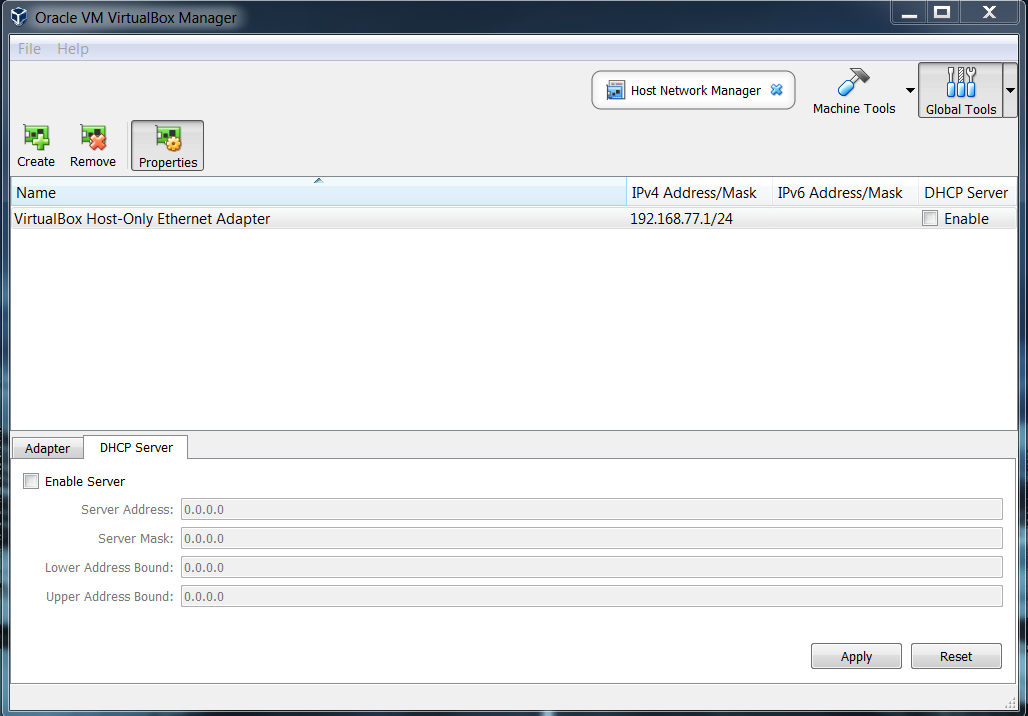
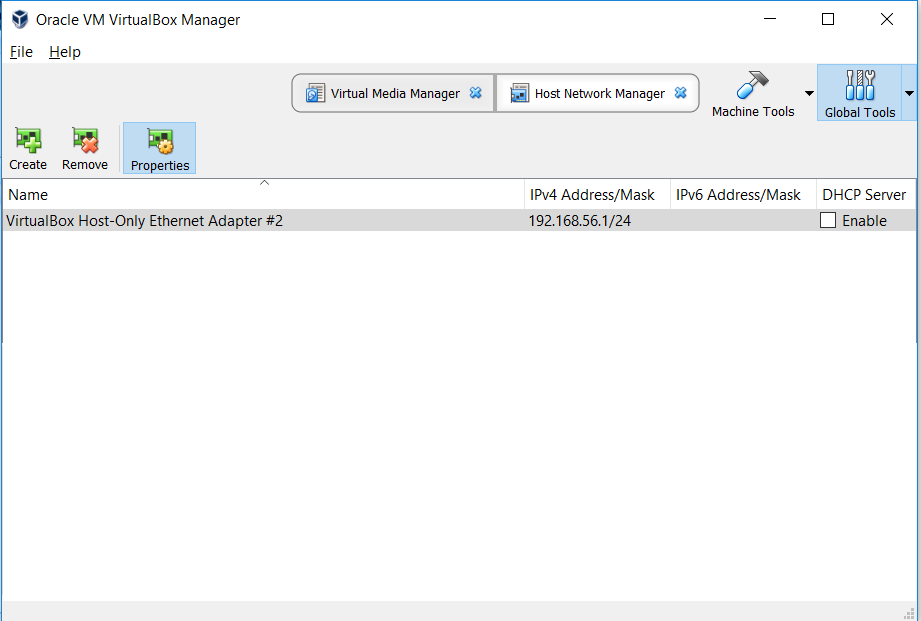
added changes from PR

Changed region(s): [[0.0, 0.0, 1.0, 1.0]]

diff --git a/src/render/guides/edge/installation/setting-up-virtual-box.html.md b/src/render/guides/edge/installation/setting-up-virtual-box.html.md
@@ -29,14 +29,14 @@ Download the VirtualBox package for your operating system from [https://www.virt
 6. Click **OK** to save your settings.
 
 7. Click **Global Tools** in the top right. Select VirtualBox Host-Only Ethernet Adapter.<br>
-<img src="/guides/images/edge/edge-vb-05.png" name="NAT network details" style="width:75%;"/>
+<img src="/guides/images/edge/edge-vb-07.png" name="NAT network details" style="width:75%;"/>
 
 8. Click the properties icon on the right and make sure that **IPv4 Address** and **IPv4 Mask** are set to the following values: IPv4 Adress = 192.168.56.1, IPv4 Mask = 255.255.255.0 <br>
-<img src="/guides/images/edge/edge-vb-06.png" name="NAT network details" style="width:75%;"/><br>
+<img src="/guides/images/edge/edge-vb-08.png" name="NAT network details" style="width:75%;"/><br>
 If, in your VirtualBox, there already is a Host-Only Ethernet Adapter configured with the same IPv4 address, then update its properties as described in the next steps.
 
 9. Click the **DHCP Server** tab and make sure that the DHCP server is not enabled.<br>
-<img src="/guides/images/edge/edge-vb-07.png" name="NAT network details" style="width:75%;"/>
+<img src="/guides/images/edge/edge-vb-09.png" name="NAT network details" style="width:75%;"/>
 
 The VirtualBox now is installed and the network is set.
 

diff --git a/src/render/guides/edge/installation/accessing-cumulocity.html.md b/src/render/guides/edge/installation/accessing-cumulocity.html.md
@@ -43,7 +43,11 @@ Using &#60;domain_name>, Cumulocity IoT Edge can be connected from the host oper
 
 ### Entering Cumulocity
 
-Once the machine is in running state, open a web browser and enter the address:
+Once the machine is in running state, open a web browser.
+
+#### Entering Cumulocity via domain name
+
+Enter the following:
 
 ```http
 https://<domain_name>
@@ -58,6 +62,24 @@ In the Login screen, log in with the following credentials:
 * Username: &#60;tenant admin username> (as provided during post-installation)
 * Password: &#60;tenant admin password> (as provided during post-installation)
 
+#### Entering Cumulocity via IP
+
+Enter the following:
+
+```http
+https://<IP_Address_Of_Edge>;
+```
+
+The Cumulocity login screen opens up.
+
+<img src="/guides/images/edge/edge-login-with-tenantid.png" name="Login screen"/>
+
+In the Login screen, log in with the following credentials:
+
+* Username: edge/&#60;tenant admin username> (as provided during post-installation)
+* Password: &#60;tenant admin password> (as provided during post-installation)
+
+<br>
 >**Info**: Cumulocity IoT Edge needs several minutes to start. Then all services should be up and running and you can login to the application.
 
 After successfully logging in, the Cumulocity platform will open:

diff --git a/src/render/guides/edge/usage/apama.html.md b/src/render/guides/edge/usage/apama.html.md
@@ -80,3 +80,14 @@ In the Cockpit application, select the device sending measurements in the **Grou
 In the Device Management application, click **All devices** in the navigator. Select the device from the device list and switch to the **Events** tab, to see the events sent by Apama as per the custom CEP rule. 
 
 <img src="/guides/images/edge/edge-apama-events.png" name="Events" style="width:100%;"/> 
+
+### Apama Analytics Builder
+
+Cumulocity IoT Edge includes Apama Analytics Builder.
+Analytics Builder provides self-service analytics to the domain experts, allowing web-based drag & drop of streaming analytics applications. 
+
+You can access Apama Analytics Builder from the Cumulocity IoT app switcher:
+
+![App switcher](/guides/images/edge/app-switcher-analytics-builder.png)
+
+See [Apama Analytics Builder for Cumulocity IoT](https://documentation.softwareag.com/onlinehelp/Rohan/Apama/v10-3-1/pas10-3-1/apama-pas-webhelp/index.html) for the complete documentation.
